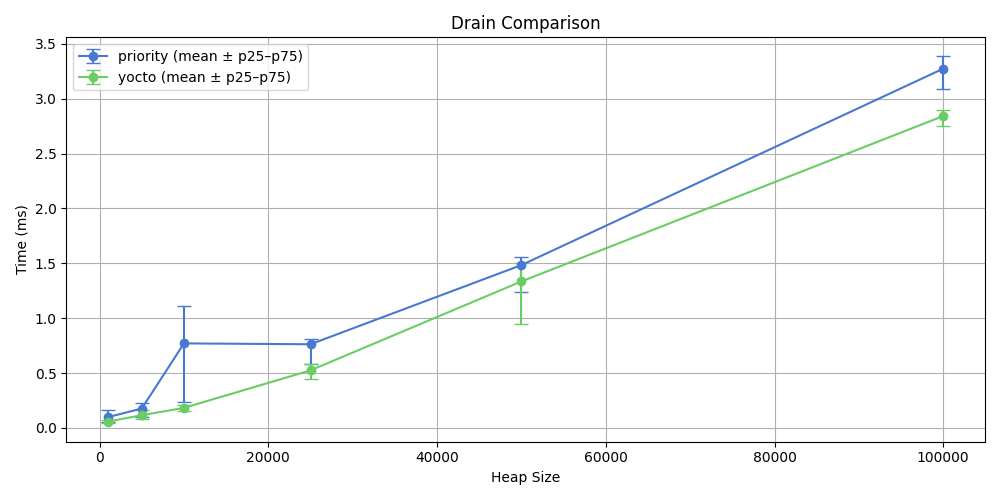
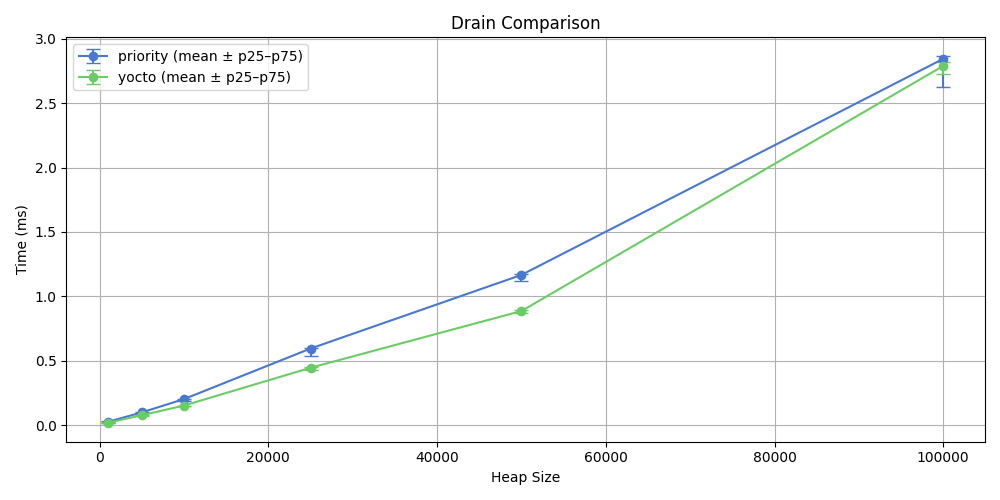
chore: update

diff --git a/benchmark/compare.ts b/benchmark/compare.ts
@@ -8,7 +8,7 @@ declare let global: {
 };
 
 const sizes = [1000, 5000, 10000, 25000, 50000, 100000];
-const trials = 10;
+const trials = 100;
 
 type Measurement = number;
 type ResultSet = Measurement[];
